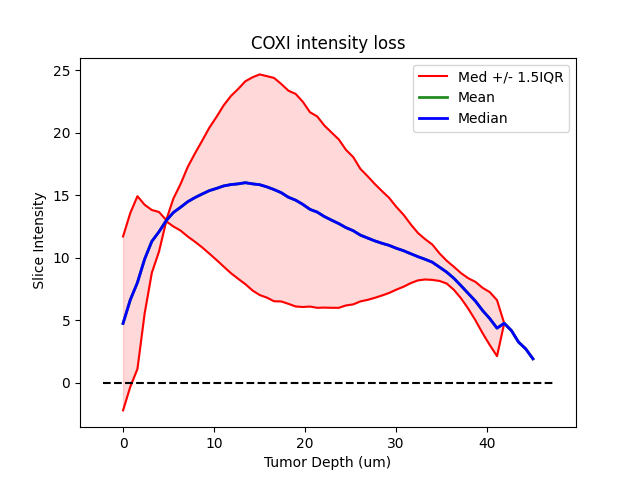
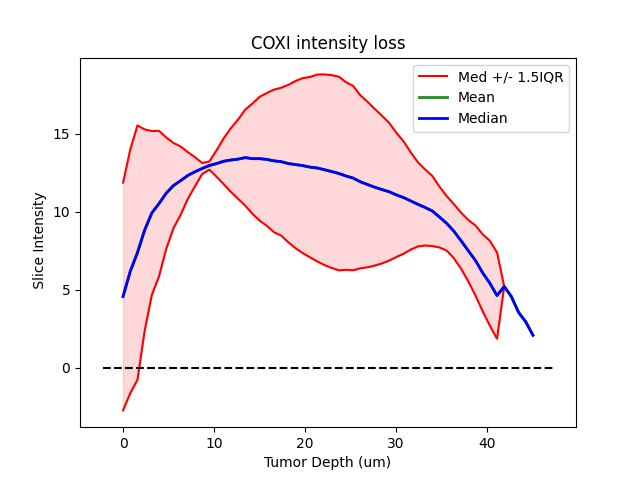
new intensity losses

diff --git a/scripts/agg_depth_loss.py b/scripts/agg_depth_loss.py
@@ -1,7 +1,6 @@
 import os
 import tools
 import normalize
-import normalize_ignore_monolayer as normalizeIM
 import argparse
 import pandas as pd
 import numpy as np
@@ -24,13 +23,9 @@ def agg_means(dirs, threshold, stddev, ignore_monolayer, cutoff = 0.75):
     for idx, d in enumerate(dirs):
         tiffs = tools.get_files(d)
         these_means = []
-        if ignore_monolayer:
-            norm_bool = normalizeIM.get_norm_bool_idxs(tiffs, cutoff)
-            for t in tiffs:
-                these_means.append(normalizeIM.tiff_mean(t, norm_bool, threshold, stddev, 0))
-        else:
-            for t in tiffs:
-                these_means.append(normalize.tiff_mean(t, threshold, stddev, 0))
+        norm_bool = 0 if not ignore_monolayer else normalize.get_norm_bool_idxs(tiffs, cutoff)
+        for t in tiffs:
+            these_means.append(normalize.tiff_mean(t, norm_bool, threshold, stddev, norm_bool))
         key = d.split(os.path.sep)[-2]
         meandict[key] = these_means
     maximum = np.max([len(x) for x in meandict.values()])
